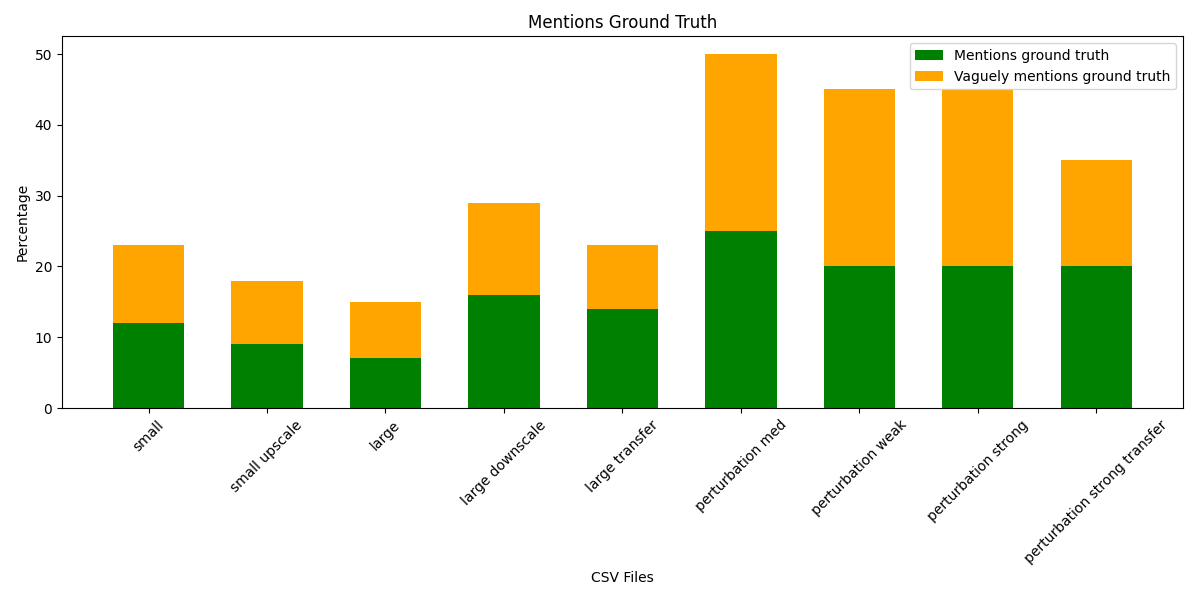
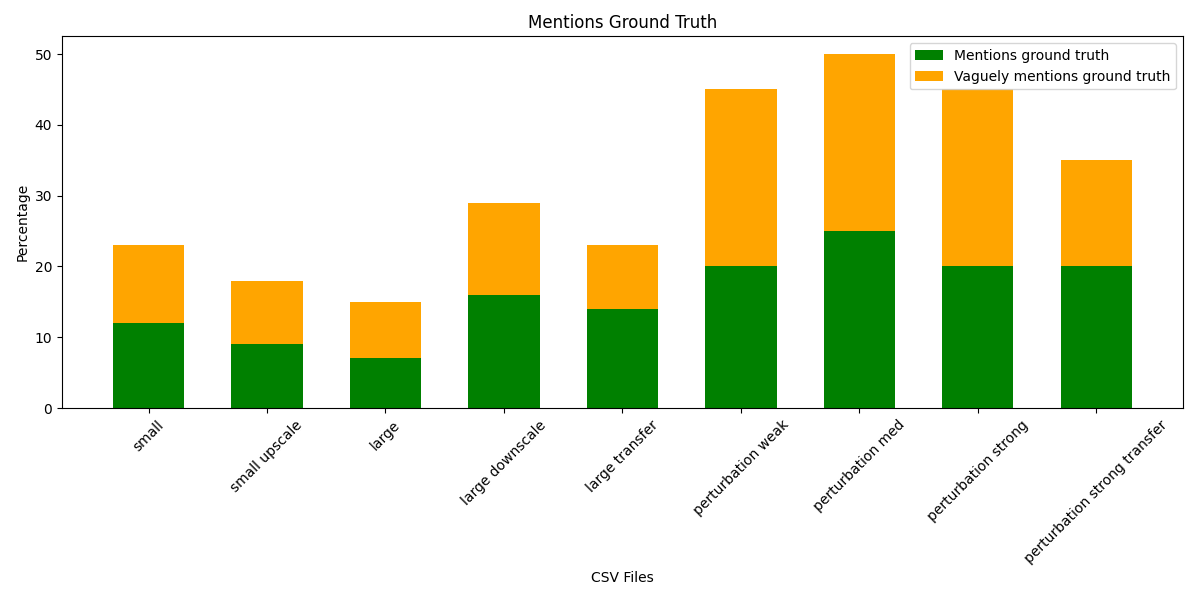
switched ordering of x-axis

diff --git a/misclass_chart.py b/misclass_chart.py
@@ -31,7 +31,7 @@ def process_csv_files(file_paths):
     create_bar_chart_grnd(file_names, negative_counts, "Mentions Ground Truth", "Percentage", "Negative", "mentions_ground_truth.png")
 
 def create_bar_chart_grnd(file_names, counts, title, ylabel, chart_type, output_filename):
-    x_ticks = ["small", "small upscale", "large", "large downscale", "large transfer", "perturbation med", "perturbation weak", "perturbation strong", "perturbation strong transfer"]
+    x_ticks = ["small", "small upscale", "large", "large downscale", "large transfer", "perturbation weak", "perturbation med", "perturbation strong", "perturbation strong transfer"]
 
     plt.figure(figsize=(12, 6))
     bar_width = 0.6
@@ -50,7 +50,7 @@ def create_bar_chart_grnd(file_names, counts, title, ylabel, chart_type, output_
     plt.close()
 
 def create_bar_chart_burr(file_names, counts, title, ylabel, chart_type, output_filename):
-    x_ticks = ["small", "small upscale", "large", "large downscale", "large transfer", "perturbation med", "perturbation weak", "perturbation strong", "perturbation strong transfer"]
+    x_ticks = ["small", "small upscale", "large", "large downscale", "large transfer", "perturbation weak", "perturbation med", "perturbation strong", "perturbation strong transfer"]
 
     plt.figure(figsize=(12, 6))
     bar_width = 0.6
@@ -75,4 +75,4 @@ if __name__ == "__main__":
 
     process_csv_files(args.file_paths)
     # order CSVs: "small", "small upscale", "large", "large downscale", "large transfer", 
-    #             "perturbation med", "perturbation weak", "perturbation strong", "perturbation strong transfer"
+    #             "perturbation weak", "perturbation med", "perturbation strong", "perturbation strong transfer"
